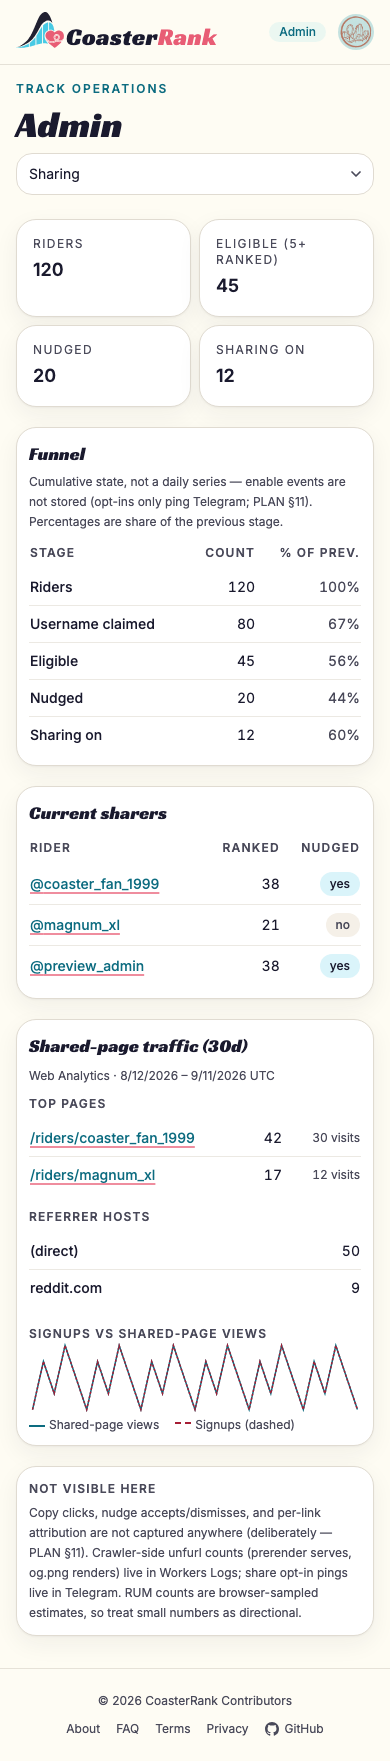
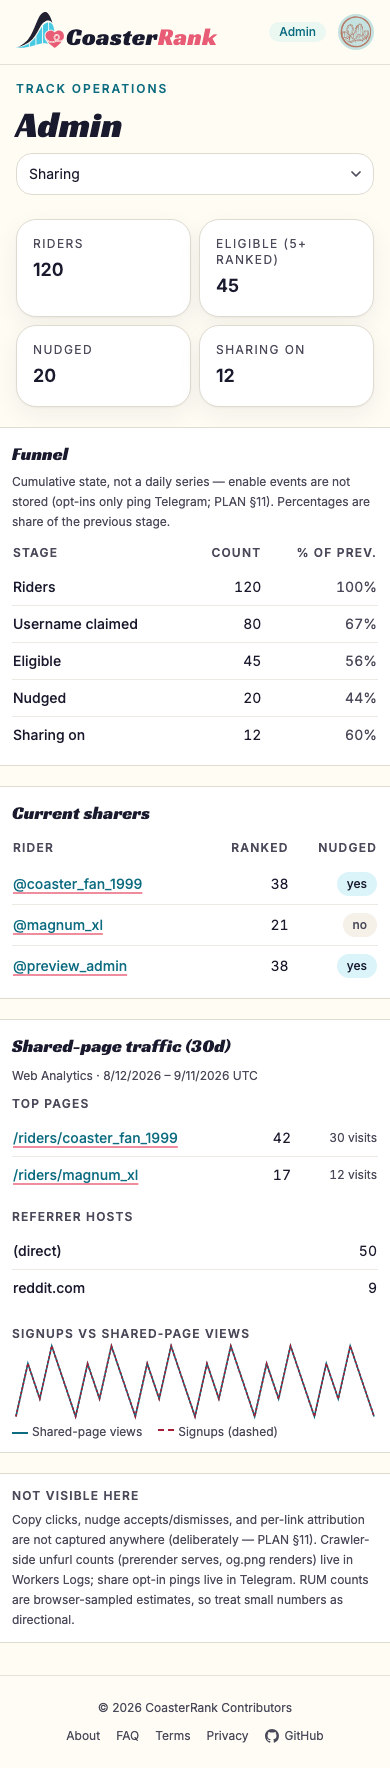
ui: full-bleed admin panels on mobile
Panel gains a bleed variant: edge-to-edge white bands on mobile (-mx-4 cancels the page-container gutters, square corners, border-y hairlines only, no shadow), restoring the floating card at sm+. All 13 admin tab panels opt in; stat tiles and inset row cards keep their treatment. Previews re-captured.

diff --git a/app/src/pages/AdminPage.tsx b/app/src/pages/AdminPage.tsx
@@ -602,7 +602,7 @@ export default function AdminPage() {
 
       <div className="space-y-4 sm:space-y-6">
         {activeTab === 'submissions' && (
-          <Panel className="p-3 sm:p-6">
+          <Panel bleed className="p-3 sm:p-6">
             <div className="mb-4 flex flex-wrap items-center justify-between gap-2">
               <h2 className="text-lg font-semibold text-ink">Submission Queue</h2>
               <div className="flex gap-1 rounded-full bg-surface p-1 text-xs">
@@ -737,7 +737,7 @@ export default function AdminPage() {
         )}
 
         {activeTab === 'coasters' && (
-          <Panel className="p-3 sm:p-6">
+          <Panel bleed className="p-3 sm:p-6">
             <div className="mb-4 flex items-center justify-between">
               <h2 className="text-lg font-semibold text-ink">Coaster Management</h2>
               <Button variant="coral" size="sm" onClick={openAddForm}>
@@ -843,7 +843,7 @@ export default function AdminPage() {
         )}
 
         {activeTab === 'parks' && (
-          <Panel className="p-3 sm:p-6">
+          <Panel bleed className="p-3 sm:p-6">
             <div className="mb-4 flex items-center justify-between">
               <h2 className="text-lg font-semibold text-ink">Park Management</h2>
               <Button variant="coral" size="sm" onClick={openAddParkForm}>
@@ -950,7 +950,7 @@ export default function AdminPage() {
         )}
 
         {activeTab === 'rehome' && (
-          <Panel className="p-3 sm:p-6">
+          <Panel bleed className="p-3 sm:p-6">
             <div className="mb-4 flex items-center gap-2">
               <Home size={20} className="text-ink" />
               <h2 className="text-lg font-semibold text-ink">Re-home Coasters</h2>
@@ -1053,7 +1053,7 @@ export default function AdminPage() {
         {activeTab === 'weighting' && <WeightingComparePanel />}
 
         {activeTab === 'control-panel' && (
-          <Panel className="p-3 sm:p-6">
+          <Panel bleed className="p-3 sm:p-6">
             <h2 className="text-lg font-semibold text-ink">Control Panel</h2>
             <p className="mt-1 text-sm text-muted">
               Toggle Telegram event notifications on or off in real-time without redeploying code.

diff --git a/app/src/components/admin/SharingPanel.tsx b/app/src/components/admin/SharingPanel.tsx
@@ -151,7 +151,7 @@ export default function SharingPanel() {
         <StatBlock label="Sharing on" value={t.sharingOn} />
       </div>
 
-      <Panel className="p-3 sm:p-5">
+      <Panel bleed className="p-3 sm:p-5">
         <h2 className="display-heading text-lg text-ink">Funnel</h2>
         <p className="mt-1 text-xs leading-5 text-muted">
           Cumulative state, not a daily series — enable events are not stored (opt-ins only ping
@@ -184,7 +184,7 @@ export default function SharingPanel() {
         </table>
       </Panel>
 
-      <Panel className="p-3 sm:p-5">
+      <Panel bleed className="p-3 sm:p-5">
         <h2 className="display-heading text-lg text-ink">Current sharers</h2>
         {data.funnel.sharers.length === 0 ? (
           <p className="mt-2 text-sm text-muted">Nobody has sharing enabled yet.</p>
@@ -216,7 +216,7 @@ export default function SharingPanel() {
         )}
       </Panel>
 
-      <Panel className="p-3 sm:p-5">
+      <Panel bleed className="p-3 sm:p-5">
         <div className="flex flex-wrap items-baseline justify-between gap-2">
           <h2 className="display-heading text-lg text-ink">Shared-page traffic (30d)</h2>
           <p className="text-xs text-muted">
@@ -296,7 +296,7 @@ export default function SharingPanel() {
         )}
       </Panel>
 
-      <Panel className="p-3 text-xs leading-5 text-muted sm:p-5">
+      <Panel bleed className="p-3 text-xs leading-5 text-muted sm:p-5">
         <p className="font-semibold uppercase tracking-[0.1em] text-muted">Not visible here</p>
         <p className="mt-1">
           Copy clicks, nudge accepts/dismisses, and per-link attribution are not captured anywhere

diff --git a/app/src/components/ui.tsx b/app/src/components/ui.tsx
@@ -62,11 +62,27 @@ export function Badge({
   )
 }
 
-export function Panel({ className = '', ...props }: HTMLAttributes<HTMLDivElement>) {
+export function Panel({
+  className = '',
+  bleed = false,
+  ...props
+}: HTMLAttributes<HTMLDivElement> & {
+  /**
+   * Full-bleed band on mobile: edge-to-edge (cancels the page-container
+   * gutters), square corners, top/bottom hairlines only, no shadow — the
+   * section reads as a white band on canvas. Restores the floating card at
+   * sm+. Used by admin tab panels.
+   */
+  bleed?: boolean
+}) {
   return (
     <div
       {...props}
-      className={`rounded-xl border border-line bg-surface-bright shadow-panel ${className}`}
+      className={
+        bleed
+          ? `-mx-4 border-y border-line bg-surface-bright sm:mx-0 sm:rounded-xl sm:border sm:shadow-panel ${className}`
+          : `rounded-xl border border-line bg-surface-bright shadow-panel ${className}`
+      }
     />
   )
 }

diff --git a/app/src/components/admin/UsersPanel.tsx b/app/src/components/admin/UsersPanel.tsx
@@ -186,7 +186,7 @@ export default function UsersPanel({ notify }: { notify: Notify }) {
         </div>
       )}
 
-      <Panel className="p-3 sm:p-4">
+      <Panel bleed className="p-3 sm:p-4">
         <div className="flex flex-col gap-3 sm:flex-row sm:items-center">
           <div className="flex shrink-0 self-start rounded-full bg-surface p-1">
             {FILTERS.map((f) => (
@@ -227,7 +227,7 @@ export default function UsersPanel({ notify }: { notify: Notify }) {
         </p>
       </Panel>
 
-      <Panel className="p-3 sm:p-6">
+      <Panel bleed className="p-3 sm:p-6">
         <div className="mb-1 flex items-center justify-between gap-3">
           <h2 className="text-lg font-semibold text-ink">Users</h2>
           <Button type="button" size="sm" variant="outline" onClick={() => setInviteOpen(true)}>

diff --git a/app/src/components/admin/WeightingComparePanel.tsx b/app/src/components/admin/WeightingComparePanel.tsx
@@ -132,7 +132,7 @@ export default function WeightingComparePanel() {
   }
 
   return (
-    <Panel className="p-3 sm:p-6">
+    <Panel bleed className="p-3 sm:p-6">
       <div className="flex items-center gap-2">
         <FlaskConical size={18} className="text-accent-text" aria-hidden="true" />
         <h2 className="text-lg font-semibold text-ink">Weighting comparison</h2>

diff --git a/app/src/components/admin/RankingsPanel.tsx b/app/src/components/admin/RankingsPanel.tsx
@@ -94,7 +94,7 @@ export default function RankingsPanel() {
   })
 
   return (
-    <Panel className="p-3 sm:p-6">
+    <Panel bleed className="p-3 sm:p-6">
       <h2 className="text-lg font-semibold text-ink">Rankings</h2>
       <p className="mt-1 text-sm text-muted">
         Refits Bradley-Terry strengths from all ranked lists and upserts{' '}

diff --git a/docs/previews/admin-mobile/README.md b/docs/previews/admin-mobile/README.md
@@ -7,9 +7,9 @@ Captured 2026-09-11 against the PR build at localhost:5199.
 | File                            | Shows                                                                                                                                   |
 | ------------------------------- | --------------------------------------------------------------------------------------------------------------------------------------- |
 | `admin-submissions-desktop.png` | Submission queue on desktop (pill tabs unchanged, note wraps)                                                                           |
-| `admin-submissions-mobile.png`  | Sticky section dropdown under the topnav; single-column stat list with intact numbers; long-URL submitter note wrapping inside the card |
-| `admin-users-desktop.png`       | Users tab on desktop                                                                                                                    |
-| `admin-users-mobile.png`        | 3-column stat blocks; full-width user rows with a very long email/name fully wrapped; actions wrapped below the user info               |
+| `admin-submissions-mobile.png` | Sticky section dropdown under the topnav; queue panel as an edge-to-edge band (no gutters/radius); single-column stat list with intact numbers; long-URL submitter note wrapping inside the card |
+| `admin-users-desktop.png` | Users tab on desktop |
+| `admin-users-mobile.png` | 3-column stat blocks; filter + list panels as full-bleed white bands; user rows with a very long email/name fully wrapped; actions wrapped below the user info |
 | `admin-sharing-desktop.png`     | Sharing tab on desktop                                                                                                                  |
 | `admin-sharing-mobile.png`      | Compact stat grid, funnel table with hints hidden, stacked traffic cards                                                                |
 
